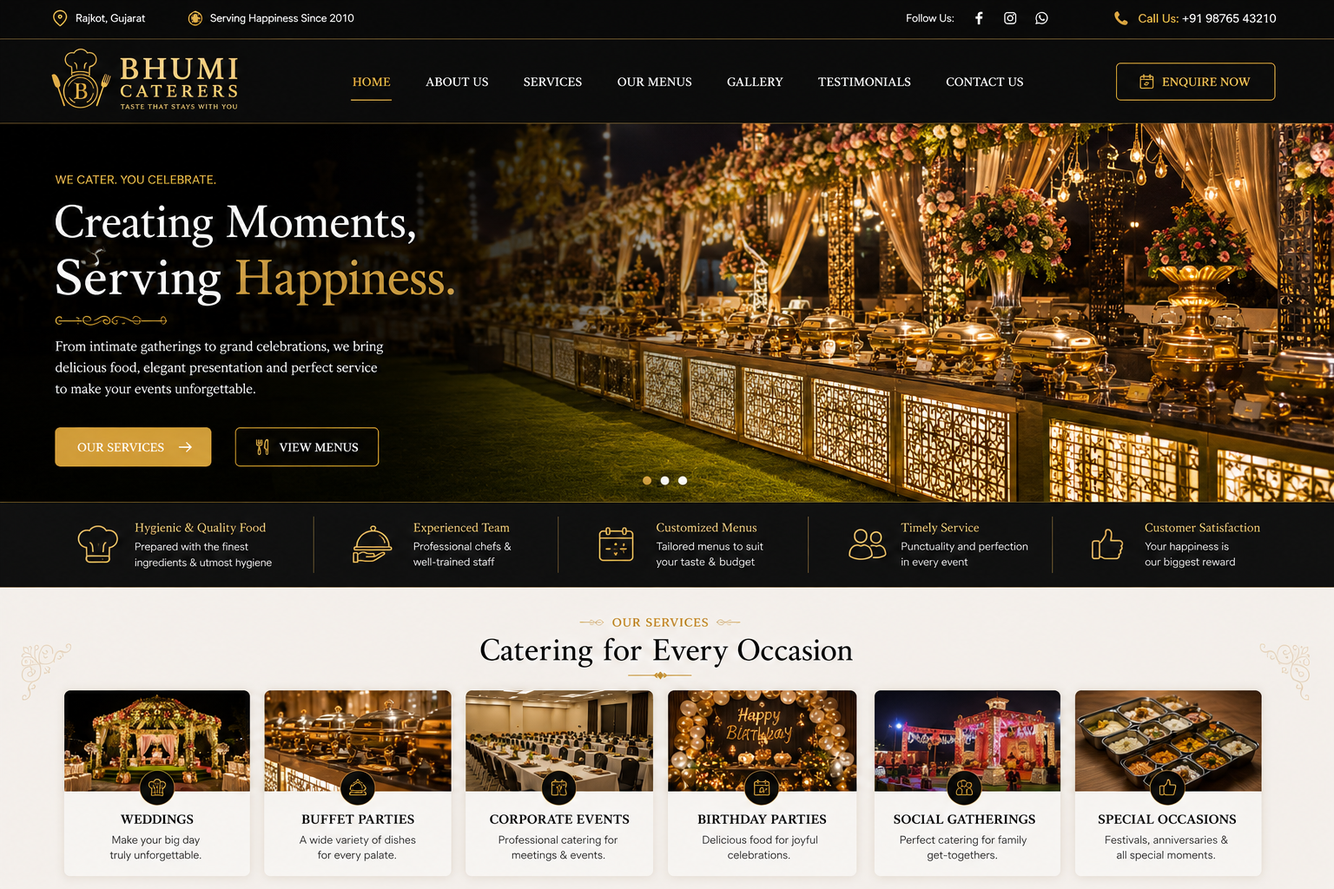
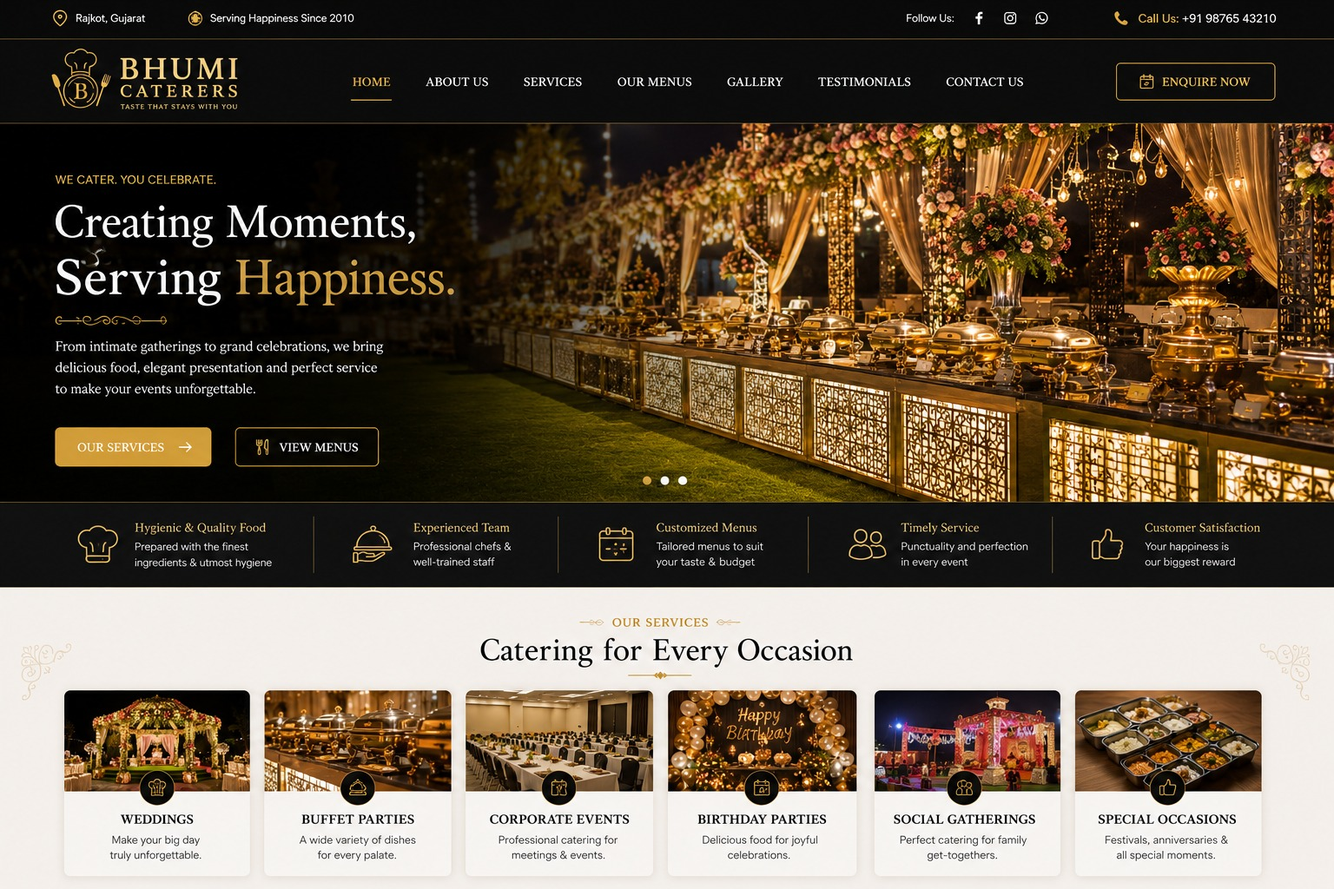
Add files via upload

diff --git a/index.html b/index.html
@@ -3,127 +3,204 @@
 <head>
 <meta charset="UTF-8">
 <meta name="viewport" content="width=device-width, initial-scale=1.0">
-<title>Bhumi Caterers | Premium Catering Services</title>
-<meta name="description" content="Bhumi Caterers - Premium vegetarian catering for weddings, corporate events, parties and special occasions.">
+<title>Bhumi Caterers | Premium Vegetarian Catering in Rajkot</title>
+<meta name="description" content="Bhumi Caterers - premium vegetarian catering for weddings, parties, corporate events and celebrations in Rajkot.">
 <style>
-:root{--gold:#d5a63b;--gold2:#f0cc72;--dark:#080808;--cream:#f7f3eb;--text:#171717}
-*{box-sizing:border-box;margin:0;padding:0}
-html{scroll-behavior:smooth}
-body{font-family:Georgia,"Times New Roman",serif;background:var(--cream);color:var(--text)}
-a{text-decoration:none;color:inherit}.topbar{background:#050505;color:#ddd;padding:9px 5%;display:flex;justify-content:space-between;gap:15px;font:12px Arial}
-header{position:sticky;top:0;z-index:20;background:rgba(5,5,5,.96);border-bottom:1px solid #5d4619;color:#fff;padding:15px 5%;display:flex;align-items:center;justify-content:space-between}
-.logo{display:flex;align-items:center;gap:12px}.logoIcon{width:46px;height:46px;border:2px solid var(--gold);border-radius:50%;display:grid;place-items:center;color:var(--gold);font-size:25px}.logoText{font-weight:bold;letter-spacing:4px;font-size:24px}.logoText small{display:block;font:9px Arial;letter-spacing:4px;color:var(--gold);text-align:center;margin-top:2px}
-nav{display:flex;gap:25px;font:13px Arial;color:#eee}nav a:hover,nav a.active{color:var(--gold)}
-.headerBtn{border:1px solid var(--gold);padding:12px 18px;color:var(--gold);font:12px Arial;font-weight:bold;border-radius:3px}
-.menuBtn{display:none;color:var(--gold);font-size:25px;background:none;border:0}
-.hero{height:650px;position:relative;overflow:hidden;background:#000;color:#fff}.hero img{position:absolute;inset:0;width:100%;height:100%;object-fit:cover;filter:saturate(.9)}.hero:after{content:"";position:absolute;inset:0;background:linear-gradient(90deg,#000 5%,rgba(0,0,0,.76) 43%,rgba(0,0,0,.15) 100%)}
-.heroContent{position:relative;z-index:2;max-width:650px;padding:120px 6%}.eyebrow{font:13px Arial;letter-spacing:2px;color:var(--gold);font-weight:bold}.hero h1{font-size:62px;line-height:1.04;margin:18px 0}.hero h1 span{color:var(--gold)}.hero p{font:16px Arial;line-height:1.75;color:#ddd;max-width:550px}.buttons{margin-top:28px;display:flex;gap:12px;flex-wrap:wrap}.btn{background:var(--gold);color:#111;padding:15px 25px;border-radius:3px;font:13px Arial;font-weight:bold}.btn.outline{background:transparent;color:#fff;border:1px solid var(--gold)}
-.stats{background:#090909;color:#fff;display:grid;grid-template-columns:repeat(5,1fr);padding:28px 5%;gap:10px;text-align:center}.stat{border-right:1px solid #594719;padding:5px}.stat:last-child{border:0}.stat b{display:block;color:var(--gold);font-size:14px;margin-bottom:6px}.stat span{font:12px Arial;color:#bbb}
-.section{padding:78px 6%}.center{text-align:center}.eyebrowDark{color:#aa7920;font:12px Arial;letter-spacing:2px;font-weight:bold}.title{font-size:40px;margin:10px 0 14px}.subtitle{font:14px Arial;color:#666;line-height:1.7;max-width:650px;margin:0 auto 40px}
-.cards{display:grid;grid-template-columns:repeat(3,1fr);gap:22px}.card{background:#fff;border:1px solid #e8dfd1;border-radius:8px;overflow:hidden;box-shadow:0 10px 30px rgba(0,0,0,.06);transition:.25s}.card:hover{transform:translateY(-5px)}.card img{width:100%;height:205px;object-fit:cover}.cardBody{padding:22px}.card h3{font-size:20px;margin-bottom:8px}.card p{font:13px Arial;line-height:1.6;color:#666}.goldLine{width:55px;height:2px;background:var(--gold);margin:20px auto 35px}
-.about{background:#0a0a0a;color:#fff;display:grid;grid-template-columns:1fr 1fr;gap:55px;align-items:center}.aboutImg{width:100%;height:460px;object-fit:cover;border-radius:5px}.about h2{font-size:42px;margin:12px 0 20px}.about p{font:14px Arial;line-height:1.9;color:#ccc}.checks{display:grid;grid-template-columns:1fr 1fr;gap:15px;margin-top:25px;font:13px Arial}.checks div:before{content:"✓";color:var(--gold);font-weight:bold;margin-right:9px}
-.menuGrid{display:grid;grid-template-columns:repeat(4,1fr);gap:15px}.menuItem{background:#111;color:#fff;padding:23px;border-radius:5px;border-left:3px solid var(--gold)}.menuItem h3{color:var(--gold);font-size:17px;margin-bottom:8px}.menuItem p{font:12px Arial;color:#ccc;line-height:1.6}
-.gallery{background:#111;color:#fff}.galleryGrid{display:grid;grid-template-columns:repeat(4,1fr);gap:10px}.galleryGrid img{width:100%;height:210px;object-fit:cover;border-radius:4px;filter:saturate(.9);transition:.25s}.galleryGrid img:hover{transform:scale(1.02);filter:saturate(1.1)}
-.testimonials{display:grid;grid-template-columns:repeat(3,1fr);gap:20px}.quote{background:#fff;padding:28px;border-radius:6px;border:1px solid #e5dccd}.stars{color:var(--gold);letter-spacing:3px;margin-bottom:12px}.quote p{font:14px Arial;line-height:1.7;color:#555}.quote b{display:block;margin-top:18px}
-.contact{background:#0a0a0a;color:#fff;display:grid;grid-template-columns:1fr 1fr;gap:50px}.contact h2{font-size:40px;margin:10px 0 20px}.contact p{font:14px Arial;line-height:1.8;color:#ccc}.info{margin-top:25px;display:grid;gap:12px;font:14px Arial}.info b{color:var(--gold)}form{display:grid;gap:12px}input,textarea,select{width:100%;padding:15px;background:#171717;border:1px solid #4b3a19;color:#fff;border-radius:3px;font:13px Arial}textarea{height:120px;resize:vertical}
-footer{background:#050505;color:#aaa;padding:45px 6%;font:12px Arial}.footerGrid{display:grid;grid-template-columns:2fr 1fr 1fr;gap:40px}.footerLogo{color:var(--gold);font:24px Georgia;font-weight:bold;margin-bottom:12px}.footerGrid h4{color:#fff;margin-bottom:15px}.footerGrid p{line-height:1.8}.copy{border-top:1px solid #222;margin-top:30px;padding-top:20px;text-align:center}
-.whatsapp{position:fixed;right:20px;bottom:20px;width:55px;height:55px;border-radius:50%;background:#1fca62;color:#fff;display:grid;place-items:center;font:bold 23px Arial;z-index:30;box-shadow:0 5px 20px #0005}
-@media(max-width:950px){nav{display:none}.menuBtn{display:block}.headerBtn{display:none}.hero{height:620px}.hero h1{font-size:47px}.stats{grid-template-columns:repeat(2,1fr)}.cards{grid-template-columns:1fr 1fr}.about,.contact{grid-template-columns:1fr}.menuGrid{grid-template-columns:1fr 1fr}.galleryGrid{grid-template-columns:1fr 1fr}.testimonials{grid-template-columns:1fr}.footerGrid{grid-template-columns:1fr 1fr}}
-@media(max-width:600px){.topbar{font-size:10px}.topbar span:nth-child(2){display:none}.logoText{font-size:19px}.heroContent{padding:95px 6%}.hero h1{font-size:39px}.hero p{font-size:14px}.stats{grid-template-columns:1fr 1fr}.cards,.menuGrid,.galleryGrid{grid-template-columns:1fr}.section{padding:55px 5%}.title,.about h2,.contact h2{font-size:32px}.galleryGrid img{height:220px}}
+:root{--gold:#d6aa48;--gold2:#f2d58b;--black:#080909;--ink:#111;--cream:#f8f3e9;--line:#6b5220;--muted:#777}
+*{box-sizing:border-box;margin:0;padding:0}html{scroll-behavior:smooth}
+body{font-family:Arial,Helvetica,sans-serif;background:var(--cream);color:var(--ink)}
+a{text-decoration:none;color:inherit}button,input,textarea{font:inherit}
+.top{height:36px;background:#050505;color:#ddd;display:flex;align-items:center;justify-content:space-between;padding:0 5%;font-size:12px}
+header{height:84px;background:rgba(7,7,7,.97);color:#fff;border-bottom:1px solid var(--line);display:flex;align-items:center;justify-content:space-between;padding:0 5%;position:sticky;top:0;z-index:50}
+.brand{display:flex;align-items:center;gap:10px}.brandIcon{width:44px;height:44px;border:2px solid var(--gold);border-radius:50%;display:grid;place-items:center;color:var(--gold);font-family:Georgia;font-size:25px}.brandText{font:700 25px Georgia;letter-spacing:3px}.brandText small{display:block;color:var(--gold);font:9px Arial;letter-spacing:4px;text-align:center;margin-top:2px}
+nav{display:flex;gap:24px;font-size:13px}nav a{color:#ddd}nav a:hover,nav a.active{color:var(--gold)}
+.enquire{border:1px solid var(--gold);padding:12px 18px;color:var(--gold);font-size:12px;font-weight:bold;border-radius:3px}
+.menuToggle{display:none;background:none;border:0;color:var(--gold);font-size:25px}
+
+.hero{min-height:650px;position:relative;overflow:hidden;background:#000;color:#fff;display:flex;align-items:center}
+.hero img{position:absolute;inset:0;width:100%;height:100%;object-fit:cover}.heroShade{position:absolute;inset:0;background:linear-gradient(90deg,#000 4%,rgba(0,0,0,.84) 39%,rgba(0,0,0,.2) 78%,rgba(0,0,0,.1))}
+.heroContent{position:relative;z-index:2;width:52%;padding:80px 6%}.eyebrow{color:var(--gold);font-size:13px;letter-spacing:2px;font-weight:bold}.hero h1{font:58px/1.05 Georgia;margin:20px 0}.hero h1 span{color:var(--gold)}.hero p{color:#ddd;font-size:15px;line-height:1.8;max-width:560px}.buttons{display:flex;gap:12px;margin-top:28px;flex-wrap:wrap}.btn{background:var(--gold);color:#111;padding:14px 24px;border-radius:3px;font-weight:bold;font-size:13px}.btn.outline{background:transparent;border:1px solid var(--gold);color:#fff}
+.trust{position:absolute;bottom:28px;left:6%;right:6%;z-index:3;display:grid;grid-template-columns:repeat(5,1fr);background:rgba(5,5,5,.84);border:1px solid #5d461b;padding:16px;border-radius:4px}.trust div{border-right:1px solid #5d461b;text-align:center;color:#bbb;font-size:11px}.trust div:last-child{border:0}.trust b{display:block;color:var(--gold);font-size:12px;margin-bottom:5px}
+
+.section{padding:75px 6%}.center{text-align:center}.eyebrowDark{color:#a97921;font-size:12px;letter-spacing:2px;font-weight:bold}.title{font:40px Georgia;margin:10px 0 12px}.subtitle{max-width:700px;margin:0 auto 35px;color:#666;font-size:14px;line-height:1.7}.orn{width:60px;height:2px;background:var(--gold);margin:18px auto 35px}
+
+.occasionGrid{display:grid;grid-template-columns:repeat(4,1fr);gap:18px}.occasion{position:relative;height:250px;border-radius:7px;overflow:hidden;color:#fff}.occasion img{width:100%;height:100%;object-fit:cover;transition:.3s}.occasion:hover img{transform:scale(1.05)}.occasion:after{content:"";position:absolute;inset:0;background:linear-gradient(transparent 35%,rgba(0,0,0,.85))}.occasionText{position:absolute;z-index:2;left:20px;right:20px;bottom:18px}.occasionText h3{font:22px Georgia;margin-bottom:5px}.occasionText p{font-size:12px;color:#ddd}
+
+.about{background:#0a0a0a;color:#fff;display:grid;grid-template-columns:1fr 1fr;gap:55px;align-items:center}.aboutImg{width:100%;height:450px;object-fit:cover;border:1px solid #5d461b}.about h2{font:42px Georgia;margin:10px 0 20px}.about p{font-size:14px;line-height:1.9;color:#ccc}.ticks{display:grid;grid-template-columns:1fr 1fr;gap:14px;margin-top:24px;font-size:13px}.ticks span:before{content:"✓";color:var(--gold);font-weight:bold;margin-right:9px}
+
+.menuSection{background:#111;color:#fff}.menuTabs{display:flex;justify-content:center;gap:8px;flex-wrap:wrap;margin:25px 0 40px}.tab{border:1px solid #6a5220;background:#171717;color:#ddd;padding:10px 15px;border-radius:20px;cursor:pointer;font-size:12px}.tab.active,.tab:hover{background:var(--gold);color:#111}.menuPanel{display:none}.menuPanel.active{display:block}.menuPanel h3{font:26px Georgia;color:var(--gold);text-align:center;margin-bottom:22px}.menuGrid{display:grid;grid-template-columns:repeat(3,1fr);gap:15px}.menuCard{background:#f7f2e8;color:#222;border-radius:6px;padding:20px;border-top:3px solid var(--gold);min-height:185px}.menuCard h4{font:18px Georgia;margin-bottom:12px}.menuCard ul{columns:2;list-style:none}.menuCard li{font-size:12px;margin:6px 0;color:#555}.menuCard li:before{content:"◆";font-size:7px;color:#b28528;margin-right:7px}
+
+.photoMenu{display:grid;grid-template-columns:repeat(4,1fr);gap:15px;margin-top:40px}.foodPhoto{background:#181818;border:1px solid #5d461b;border-radius:5px;overflow:hidden}.foodPhoto img{width:100%;height:180px;object-fit:cover}.foodPhoto h4{padding:13px;color:var(--gold);font:17px Georgia}.foodPhoto p{padding:0 13px 15px;color:#aaa;font-size:11px}
+
+.gallery{background:#f3eee4}.galleryGrid{display:grid;grid-template-columns:repeat(3,1fr);gap:12px}.galleryGrid img{width:100%;height:260px;object-fit:cover;border-radius:5px;transition:.25s}.galleryGrid img:hover{transform:scale(1.015)}
+
+.reviews{display:grid;grid-template-columns:repeat(3,1fr);gap:20px}.review{background:#fff;border:1px solid #e5dccd;padding:27px;border-radius:5px}.stars{color:#c79732;letter-spacing:3px;margin-bottom:12px}.review p{font-size:13px;line-height:1.7;color:#555}.review b{display:block;margin-top:15px;font-size:12px}
+
+.cta{background:linear-gradient(90deg,#090909,#17130b);color:#fff;display:grid;grid-template-columns:1.2fr 1fr;align-items:center;gap:50px}.cta h2{font:42px Georgia;margin:10px 0}.cta p{color:#ccc;line-height:1.7;font-size:14px}.contactBox{border:1px solid #5d461b;padding:28px;border-radius:5px}.contactRow{display:flex;justify-content:space-between;gap:15px;padding:13px 0;border-bottom:1px solid #332814;font-size:13px}.contactRow:last-child{border:0}.contactRow b{color:var(--gold)}
+
+footer{background:#050505;color:#aaa;padding:45px 6%;font-size:12px}.footGrid{display:grid;grid-template-columns:2fr 1fr 1fr 1fr;gap:35px}.footGrid h4{color:#fff;margin-bottom:15px}.footBrand{font:25px Georgia;color:var(--gold);margin-bottom:10px}.footGrid p{line-height:1.9}.copy{border-top:1px solid #222;margin-top:30px;padding-top:18px;text-align:center}
+.wa{position:fixed;right:18px;bottom:18px;width:55px;height:55px;border-radius:50%;display:grid;place-items:center;background:#1fc766;color:#fff;font-weight:bold;z-index:60;box-shadow:0 5px 18px #0006}
+
+@media(max-width:1000px){nav{display:none}.menuToggle{display:block}.enquire{display:none}.heroContent{width:70%}.trust{grid-template-columns:repeat(2,1fr);gap:10px}.trust div:nth-child(2n){border:0}.occasionGrid{grid-template-columns:repeat(2,1fr)}.menuGrid{grid-template-columns:repeat(2,1fr)}.photoMenu{grid-template-columns:repeat(2,1fr)}.footGrid{grid-template-columns:repeat(2,1fr)}}
+@media(max-width:650px){.top{font-size:10px}.top span:nth-child(2){display:none}.brandText{font-size:19px}.hero{min-height:690px}.heroContent{width:100%;padding:65px 6% 190px}.hero h1{font-size:41px}.heroShade{background:linear-gradient(90deg,#000 0%,rgba(0,0,0,.72) 100%)}.trust{left:4%;right:4%;bottom:15px;grid-template-columns:1fr 1fr;padding:10px}.section{padding:55px 5%}.title{font-size:32px}.occasionGrid,.menuGrid,.photoMenu,.reviews,.galleryGrid,.about,.cta{grid-template-columns:1fr}.aboutImg{height:300px}.menuCard ul{columns:1}.galleryGrid img{height:230px}.footGrid{grid-template-columns:1fr}.cta h2{font-size:34px}}
 </style>
 </head>
 <body>
-<div class="topbar"><span>📍 Rajkot, Gujarat</span><span>✦ Serving Happiness Since 2010</span><span>☎ Call Us: +91 98765 43210</span></div>
+
+<div class="top"><span>📍 Rajkot, Gujarat</span><span>✦ Pure Vegetarian Catering</span><span>☎ +91 98253 21216</span></div>
 <header>
-<a class="logo" href="#home"><span class="logoIcon">B</span><span class="logoText">BHUMI<small>CATERERS</small></span></a>
-<nav><a class="active" href="#home">HOME</a><a href="#about">ABOUT</a><a href="#services">SERVICES</a><a href="#menus">MENUS</a><a href="#gallery">GALLERY</a><a href="#reviews">REVIEWS</a><a href="#contact">CONTACT</a></nav>
-<a class="headerBtn" href="#contact">ENQUIRE NOW</a><button class="menuBtn" onclick="toggleMenu()">☰</button>
+<a href="#home" class="brand"><span class="brandIcon">B</span><span class="brandText">BHUMI<small>CATERERS</small></span></a>
+<nav id="nav"><a class="active" href="#home">HOME</a><a href="#about">ABOUT</a><a href="#services">SERVICES</a><a href="#menu">OUR MENU</a><a href="#gallery">GALLERY</a><a href="#reviews">REVIEWS</a><a href="#contact">CONTACT</a></nav>
+<a class="enquire" href="#contact">ENQUIRE NOW →</a><button class="menuToggle" onclick="toggleNav()">☰</button>
 </header>
 
 <section class="hero" id="home">
-<img src="hero.jpg" alt="Luxury Bhumi Caterers buffet">
-<div class="heroContent">
-<div class="eyebrow">WE CATER. YOU CELEBRATE.</div>
+<img src="hero.jpg" alt="Luxury catering buffet">
+<div class="heroShade"></div>
+<div class="heroContent"><div class="eyebrow">WE CATER. YOU CELEBRATE.</div>
 <h1>Creating Moments,<br>Serving <span>Happiness.</span></h1>
-<p>From intimate family gatherings to grand weddings, Bhumi Caterers brings delicious vegetarian food, elegant presentation and professional service to every celebration.</p>
-<div class="buttons"><a class="btn" href="#services">OUR SERVICES →</a><a class="btn outline" href="#menus">VIEW MENUS</a></div>
-</div></section>
-
-<div class="stats">
-<div class="stat"><b>QUALITY FOOD</b><span>Fresh ingredients & hygiene</span></div>
-<div class="stat"><b>EXPERIENCED TEAM</b><span>Professional chefs & staff</span></div>
-<div class="stat"><b>CUSTOM MENUS</b><span>Menus for every taste</span></div>
-<div class="stat"><b>TIMELY SERVICE</b><span>Punctual & organized</span></div>
-<div class="stat"><b>HAPPY CLIENTS</b><span>Celebrations made special</span></div>
-</div>
+<p>Premium vegetarian catering for weddings, family functions, corporate events and every celebration that deserves unforgettable food and flawless service. <strong style="color:#f2d58b">Contact: Darshit Kakkad</strong></p>
+<div class="buttons"><a class="btn" href="#contact">PLAN YOUR EVENT →</a><a class="btn outline" href="#menu">EXPLORE MENU</a></div></div>
+<div class="trust"><div><b>HYGIENIC FOOD</b>Fresh ingredients</div><div><b>EXPERIENCED TEAM</b>Professional chefs</div><div><b>CUSTOM MENUS</b>Your taste, your way</div><div><b>ON-TIME SERVICE</b>Perfect execution</div><div><b>HAPPY CLIENTS</b>Memorable events</div></div>
+</section>
 
 <section class="section center" id="services">
-<div class="eyebrowDark">OUR SERVICES</div><h2 class="title">Catering for Every Occasion</h2><div class="goldLine"></div>
-<p class="subtitle">Whether it is a wedding, birthday, corporate gathering or family function, our team creates a memorable dining experience.</p>
-<div class="cards">
-<div class="card"><img src="hero.jpg"><div class="cardBody"><h3>Wedding Catering</h3><p>Grand buffet setups, live counters and elegant vegetarian menus for your special day.</p></div></div>
-<div class="card"><img src="hero.jpg"><div class="cardBody"><h3>Buffet Parties</h3><p>Beautiful presentation and a wide variety of dishes for every kind of celebration.</p></div></div>
-<div class="card"><img src="hero.jpg"><div class="cardBody"><h3>Corporate Events</h3><p>Professional catering for meetings, launches, conferences and office celebrations.</p></div></div>
-<div class="card"><img src="hero.jpg"><div class="cardBody"><h3>Birthday Parties</h3><p>Fun, flavorful and perfectly planned food service for memorable birthdays.</p></div></div>
-<div class="card"><img src="hero.jpg"><div class="cardBody"><h3>Social Gatherings</h3><p>Family functions and get-togethers with customized menus and smooth service.</p></div></div>
-<div class="card"><img src="hero.jpg"><div class="cardBody"><h3>Special Occasions</h3><p>Festivals, anniversaries and celebrations planned around your requirements.</p></div></div>
+<div class="eyebrowDark">WHAT WE CATER</div><h2 class="title">Catering for Every Occasion</h2><div class="orn"></div>
+<p class="subtitle">From intimate family gatherings to grand celebrations, our team handles food, presentation and service with care.</p>
+<div class="occasionGrid">
+<div class="occasion"><img src="main-course.jpg"><div class="occasionText"><h3>Weddings</h3><p>Grand buffet • Live counters • Full service</p></div></div>
+<div class="occasion"><img src="shak-sabji.jpg"><div class="occasionText"><h3>Buffet Parties</h3><p>Rich variety • Elegant presentation</p></div></div>
+<div class="occasion"><img src="starter-cutlet.jpg"><div class="occasionText"><h3>Corporate Events</h3><p>Professional catering for teams & guests</p></div></div>
+<div class="occasion"><img src="starter-roll.jpg"><div class="occasionText"><h3>Birthdays & Functions</h3><p>Fun menus for every celebration</p></div></div>
 </div>
 </section>
 
 <section class="section about" id="about">
-<img class="aboutImg" src="hero.jpg" alt="Bhumi Caterers">
-<div><div class="eyebrow">ABOUT BHUMI CATERERS</div><h2>Food That Brings People Together.</h2><p>We believe catering is more than serving food. It is about creating an experience that guests remember. Bhumi Caterers focuses on taste, hygiene, presentation and dependable service for every event.</p>
-<div class="checks"><div>Premium ingredients</div><div>Pure vegetarian menus</div><div>Professional staff</div><div>Elegant presentation</div><div>Customized packages</div><div>On-time service</div></div></div>
+<img class="aboutImg" src="hero.jpg" alt="Bhumi Caterers buffet">
+<div><div class="eyebrow">ABOUT BHUMI CATERERS</div><h2>Taste That Stays With You.</h2>
+<p>Bhumi Caterers is a specialist in Kathiyawadi, Punjabi, Chinese and a wide variety of vegetarian foods. We combine authentic taste with clean presentation, dependable staff and customized menus for every event.</p>
+<div class="ticks"><span>Pure vegetarian catering</span><span>Fresh quality ingredients</span><span>Counter decoration</span><span>Professional service staff</span><span>Good food service</span><span>Trusted team</span></div></div>
 </section>
 
-<section class="section center" id="menus">
-<div class="eyebrowDark">OUR SPECIAL MENU</div><h2 class="title">Taste Crafted for Your Celebration</h2><div class="goldLine"></div>
-<div class="menuGrid">
-<div class="menuItem"><h3>Welcome Drinks</h3><p>Fresh welcome beverages & traditional refreshments.</p></div>
-<div class="menuItem"><h3>Starters</h3><p>Hot snacks, chaat, farsan & live starter counters.</p></div>
-<div class="menuItem"><h3>Main Course</h3><p>Rich Gujarati, Punjabi, South Indian & fusion options.</p></div>
-<div class="menuItem"><h3>Live Counters</h3><p>Freshly prepared dishes served hot by our chefs.</p></div>
-<div class="menuItem"><h3>Indian Breads</h3><p>Rotis, naan, puri and traditional breads.</p></div>
-<div class="menuItem"><h3>Rice & Dal</h3><p>Fragrant rice, pulao, biryani and dal preparations.</p></div>
-<div class="menuItem"><h3>Desserts</h3><p>Traditional sweets, desserts and celebration specials.</p></div>
-<div class="menuItem"><h3>Custom Menu</h3><p>Tell us your preference and we will create it for you.</p></div>
+<section class="section menuSection" id="menu">
+<div class="center"><div class="eyebrow">OUR MENU</div><h2 class="title">A Menu Made for Every Guest</h2><div class="orn"></div><p class="subtitle" style="color:#aaa">The menu categories below are created from the menu names you provided. Tap a category to explore.</p></div>
+<div style="max-width:900px;margin:0 auto 18px;text-align:center;color:#aaa;font-size:12px">Menu is arranged from the menu pages you supplied — category-wise, as a fresh digital menu (the original menu-card photos are not used as website cards).</div><div class="menuTabs">
+<button class="tab active" onclick="showMenu('main',this)">Main Course</button>
+<button class="tab" onclick="showMenu('rice',this)">Rice & Pulav</button>
+<button class="tab" onclick="showMenu('soup',this)">Soups</button>
+<button class="tab" onclick="showMenu('starter',this)">Starters</button>
+<button class="tab" onclick="showMenu('chinese',this)">Chinese</button>
+<button class="tab" onclick="showMenu('south',this)">South Indian</button>
+<button class="tab" onclick="showMenu('bread',this)">Breads</button>
+<button class="tab" onclick="showMenu('sweet',this)">Sweets</button>
+<button class="tab" onclick="showMenu('live',this)">Live Counters</button>
+<button class="tab" onclick="showMenu('other',this)">More</button>
+</div>
+
+<div class="menuPanel active" id="main"><h3>Shak / Sabji • Dal / Rassa</h3><div class="menuGrid">
+<div class="menuCard"><h4>Dal / Rassa / Fular</h4><ul><li>Dal Fry</li><li>Special Punjabi Dal Tadka</li><li>Dal Makhani</li><li>Kadhai Dal</li><li>Palak Mag</li><li>Mix Dal</li><li>Punjabi Kadhi</li><li>Kadhi Pakoda</li><li>Raita</li><li>Boondi Raita</li><li>Sev Tameta</li><li>Kadhi Kachori</li></ul></div>
+<div class="menuCard"><h4>Gujarati & Kathiyawadi</h4><ul><li>Undhiyu</li><li>Gujarati Kadhi</li><li>Ringan Bateta</li><li>Ringan No Olo</li><li>Sev Tameta Nu Shaak</li><li>Bateta Nu Shaak</li><li>Lasaniya Bateta</li><li>Mix Kathiyawadi Shaak</li><li>Bhinda Masala</li><li>Bhinda Fry</li><li>Gavar Nu Shaak</li><li>Tuvar Lilva</li></ul></div>
+<div class="menuCard"><h4>Paneer & Veg Special</h4><ul><li>Paneer Butter Masala</li><li>Paneer Tikka Masala</li><li>Paneer Lababdar</li><li>Paneer Pasanda</li><li>Paneer Handi</li><li>Paneer Cheese Masala</li><li>Paneer Makhani</li><li>Kaju Masala</li><li>Veg Kolhapuri</li><li>Veg Handi</li><li>Veg Makhani</li><li>Veg Hyderabadi</li></ul></div>
+</div></div>
+
+<div class="menuPanel" id="rice"><h3>Rice • Pulav • Khichdi</h3><div class="menuGrid">
+<div class="menuCard"><h4>Rice & Pulav</h4><ul><li>Steam Rice</li><li>Jeera Rice</li><li>Veg Pulav</li><li>Kashmiri Pulav</li><li>Peas Pulav</li><li>Hyderabadi Biryani</li><li>Veg Biryani</li><li>Paneer Biryani</li><li>Fried Rice</li><li>Schezwan Fried Rice</li><li>Triple Schezwan Rice</li><li>Singapuri Rice</li></ul></div>
+<div class="menuCard"><h4>Special Rice</h4><ul><li>Veg. Biryani with Kadhi</li><li>Paneer Veg. Biryani</li><li>Mexican Rice</li><li>American Rice</li><li>Macaroni Rice</li><li>Vegetable Rice</li><li>Palak Pulav</li><li>Peas Pulav</li><li>Gujarati Pulav</li><li>Special Wedding Pulav</li></ul></div>
+<div class="menuCard"><h4>Khichdi</h4><ul><li>Dal Khichdi</li><li>Palak Khichdi</li><li>Sabudana Khichdi</li><li>Vaghareli Khichdi</li><li>Veg Khichdi</li><li>Gujarati Kadhi with Khichdi</li></ul></div>
+</div></div>
+
+<div class="menuPanel" id="soup"><h3>Garma Garam Soup</h3><div class="menuGrid">
+<div class="menuCard"><h4>Indian & Classic</h4><ul><li>Veg. Manchow Soup</li><li>Veg. Sweet Corn Soup</li><li>Veg. Clear Soup</li><li>Tomato Soup</li><li>Veg. Hot & Sour Soup</li><li>Veg. Garlic Soup</li><li>Veg. Minestrone Soup</li><li>Veg. Italian Soup</li></ul></div>
+<div class="menuCard"><h4>International</h4><ul><li>Lemon Coriander Soup</li><li>Mexican Tomato Soup</li><li>Italian Minestrone Soup</li><li>Mexican Chilli Bean Soup</li><li>Thai Lemon Pepper Soup</li><li>Thai Green Pepper Soup</li><li>Bulgarian Lutenitsa Soup</li><li>Cream of Tomato Soup</li></ul></div>
+<div class="menuCard"><h4>Special</h4><ul><li>Mushroom Soup</li><li>Veg. Split Corn Soup</li><li>Veg. Garlic Soup</li><li>Hot & Sour Special</li><li>Chilli Tomato Soup</li><li>Garden Vegetable Soup</li></ul></div>
+</div></div>
+
+<div class="menuPanel" id="starter"><h3>Starters & Snacks</h3><div class="menuGrid">
+<div class="menuCard"><h4>Indian Starters</h4><ul><li>Veg Cutlet</li><li>Cheese Cutlet</li><li>Hara Bhara Kebab</li><li>Dahi Kebab</li><li>Veg Seekh Kebab</li><li>Corn Kebab</li><li>Mix Pakoda</li><li>Paneer Pakoda</li><li>Onion Pakoda</li><li>Mirchi Bhajiya</li><li>Samosa</li><li>Kachori</li></ul></div>
+<div class="menuCard"><h4>Gujarati Farsan</h4><ul><li>Dhokla</li><li>Khaman Dhokla</li><li>Khandvi</li><li>Patra</li><li>Fafda</li><li>Bhajiya</li><li>Sev Khamani</li><li>Locho</li></ul></div>
+<div class="menuCard"><h4>Western & Continental</h4><ul><li>Garlic Bread</li><li>Cheese Balls</li><li>Jalapeno Potato</li><li>American Corn Cheese Balls</li><li>Veg Spring Roll</li><li>Cheese Roll</li><li>Paneer Cheese Toast</li><li>American Chopsy</li></ul></div>
+</div></div>
+
+<div class="menuPanel" id="chinese"><h3>Chinese & Oriental</h3><div class="menuGrid">
+<div class="menuCard"><h4>Noodles & Rice</h4><ul><li>Veg Hakka Noodles</li><li>Veg Schezwan Noodles</li><li>Veg Manchurian Dry</li><li>Veg Manchurian Gravy</li><li>Chilli Paneer Dry</li><li>Chilli Paneer Gravy</li><li>Gobi Manchurian</li><li>Honey Chilli Potato</li></ul></div>
+<div class="menuCard"><h4>Chinese Specials</h4><ul><li>Crispy Corn</li><li>Veg Spring Roll</li><li>American Chopsy</li><li>Chinese Bhel</li><li>Veg Fried Rice</li><li>Schezwan Fried Rice</li><li>Triple Schezwan Rice</li><li>Chilli Garlic Noodles</li></ul></div>
+<div class="menuCard"><h4>Asian & Fusion</h4><ul><li>Mexican Tacos</li><li>Italian Pasta</li><li>Mexican Chilli Bean</li><li>Garlic Noodles</li><li>Cheese Chilli</li><li>Veg. Stir Fry</li><li>Chinese Bhel</li><li>Asian style starters</li></ul></div>
+</div></div>
+
+<div class="menuPanel" id="south"><h3>South Indian</h3><div class="menuGrid">
+<div class="menuCard"><h4>Dosa</h4><ul><li>Plain Dosa</li><li>Masala Dosa</li><li>Rava Dosa</li><li>Mysore Masala Dosa</li><li>Butter Dosa</li><li>Cheese Dosa</li><li>Schezwan Dosa</li><li>Paneer Dosa</li></ul></div>
+<div class="menuCard"><h4>South Indian Favorites</h4><ul><li>Idli</li><li>Medu Vada</li><li>Masala Vada</li><li>Uttapam</li><li>Upma</li><li>Appam</li><li>Mini Idli</li><li>Chutneys & Sambhar</li></ul></div>
+<div class="menuCard"><h4>Live South Indian</h4><ul><li>Live Dosa Counter</li><li>Live Idli Counter</li><li>Live Uttapam</li><li>Live Vada</li><li>Fresh Sambhar</li><li>Fresh Coconut Chutney</li></ul></div>
+</div></div>
+
+<div class="menuPanel" id="bread"><h3>Live Roti • Paratha • Naan</h3><div class="menuGrid">
+<div class="menuCard"><h4>Roti & Puri</h4><ul><li>Phulka Roti</li><li>Puri</li><li>Missi Roti</li><li>Jowar Roti</li><li>Bajra Rotla</li><li>Bhakhri</li><li>Butter Roti</li><li>Roomali Roti</li></ul></div>
+<div class="menuCard"><h4>Paratha</h4><ul><li>Plain Paratha</li><li>Lachha Paratha</li><li>Ajwain Paratha</li><li>Paneer Paratha</li><li>Cheese Paratha</li><li>Palak Paratha</li><li>Aloo Paratha</li><li>Lasuni Paratha</li></ul></div>
+<div class="menuCard"><h4>Naan</h4><ul><li>Butter Naan</li><li>Garlic Naan</li><li>Cheese Naan</li><li>Cheese Garlic Naan</li><li>Stuffed Naan</li><li>Plain Kulcha</li><li>Masala Kulcha</li><li>Kashmiri Naan</li></ul></div>
+</div></div>
+
+<div class="menuPanel" id="sweet"><h3>Sweets & Desserts</h3><div class="menuGrid">
+<div class="menuCard"><h4>Traditional Sweets</h4><ul><li>Gulab Jamun</li><li>Jalebi</li><li>Rasmalai</li><li>Basundi</li><li>Gajar Halwa</li><li>Moong Dal Halwa</li><li>Shahi Tukda</li><li>Malai Kulfi</li></ul></div>
+<div class="menuCard"><h4>Special Desserts</h4><ul><li>Doodh Pak</li><li>Kaju Pista Mithai</li><li>Dry Fruit Halwa</li><li>Ice Cream</li><li>Fruit Cream</li><li>Rabdi</li><li>Special Wedding Dessert</li></ul></div>
+<div class="menuCard"><h4>Live Sweet Counter</h4><ul><li>Live Jalebi</li><li>Live Malpua</li><li>Live Rabdi</li><li>Hot Gulab Jamun</li><li>Fresh Kulfi</li></ul></div>
+</div></div>
+
+<div class="menuPanel" id="live"><h3>Live Counters</h3><div class="menuGrid">
+<div class="menuCard"><h4>Live Indian Counters</h4><ul><li>Live Dhokla</li><li>Live Khaman</li><li>Live Pav Bhaji</li><li>Live Pasta</li><li>Live Manchurian</li><li>Live Chaat</li></ul></div>
+<div class="menuCard"><h4>Live Chaat Counter</h4><ul><li>Raj Kachori</li><li>Dahi Puri</li><li>Sev Puri</li><li>Pani Puri</li><li>Ragda Puri</li><li>Aloo Tikki Chaat</li><li>Basket Chaat</li></ul></div>
+<div class="menuCard"><h4>Live Beverage Counter</h4><ul><li>Masala Chaas</li><li>Fresh Lime Soda</li><li>Sweet Lassi</li><li>Salted Lassi</li><li>Fresh Fruit Juice</li><li>Cold Coffee</li></ul></div>
+</div></div>
+
+<div class="menuPanel" id="other"><h3>Accompaniments & More</h3><div class="menuGrid">
+<div class="menuCard"><h4>Salad & Raita</h4><ul><li>Green Salad</li><li>Kachumber Salad</li><li>Russian Salad</li><li>Boondi Raita</li><li>Mixed Raita</li><li>Fresh Chaas</li></ul></div>
+<div class="menuCard"><h4>Chutney & Pickle</h4><ul><li>Green Chutney</li><li>Sweet Chutney</li><li>Mint Chutney</li><li>Pickle</li><li>Onion Salad</li><li>Masala Papad</li></ul></div>
+<div class="menuCard"><h4>Other Services</h4><ul><li>Counter Decoration</li><li>Couple Service Staff</li><li>Good Food Service</li><li>Trained Service Staff</li><li>Customized Menu Planning</li><li>Event Support</li></ul></div>
+</div></div>
+
+<div class="photoMenu">
+<div class="foodPhoto"><img src="main-course.jpg"><h4>Rich Main Course</h4><p>Dal, rassa, paneer and vegetables</p></div>
+<div class="foodPhoto"><img src="shak-sabji.jpg"><h4>Signature Sabji</h4><p>Traditional & Punjabi favourites</p></div>
+<div class="foodPhoto"><img src="starter-cutlet.jpg"><h4>Premium Starters</h4><p>Hot snacks and kebabs</p></div>
+<div class="foodPhoto"><img src="soup.jpg"><h4>Hot Soup</h4><p>Classic and international soups</p></div>
 </div>
 </section>
 
 <section class="section gallery" id="gallery">
-<div class="center"><div class="eyebrow">OUR GALLERY</div><h2 class="title">Moments We Love to Serve</h2><div class="goldLine"></div></div>
+<div class="center"><div class="eyebrowDark">FOOD & SERVICE</div><h2 class="title">A Premium Catering Experience</h2><div class="orn"></div></div>
 <div class="galleryGrid">
-<img src="hero.jpg"><img src="hero.jpg"><img src="hero.jpg"><img src="hero.jpg">
-<img src="hero.jpg"><img src="hero.jpg"><img src="hero.jpg"><img src="hero.jpg">
+<img src="main-course.jpg" alt="Main course"><img src="shak-sabji.jpg" alt="Vegetable dishes"><img src="breads-roti.jpg" alt="Roti">
+<img src="breads-paratha.jpg" alt="Paratha"><img src="naan.jpg" alt="Naan"><img src="starter-cutlet.jpg" alt="Starters">
+<img src="starter-roll.jpg" alt="Spring roll"><img src="soup.jpg" alt="Soup"><img src="kebab.jpg" alt="Kebab">
 </div>
 </section>
 
 <section class="section center" id="reviews">
-<div class="eyebrowDark">CLIENT LOVE</div><h2 class="title">What Our Guests Say</h2><div class="goldLine"></div>
-<div class="testimonials">
-<div class="quote"><div class="stars">★★★★★</div><p>“Food quality and presentation were excellent. The entire team managed our function beautifully.”</p><b>— Happy Client</b></div>
-<div class="quote"><div class="stars">★★★★★</div><p>“The buffet looked premium and every dish was served perfectly. Highly recommended.”</p><b>— Wedding Client</b></div>
-<div class="quote"><div class="stars">★★★★★</div><p>“Professional service, delicious food and very cooperative staff. Wonderful experience.”</p><b>— Family Event</b></div>
-</div>
+<div class="eyebrowDark">CLIENT LOVE</div><h2 class="title">What Guests Remember</h2><div class="orn"></div>
+<div class="reviews"><div class="review"><div class="stars">★★★★★</div><p>“Excellent food, beautiful presentation and very cooperative staff. The whole function was managed smoothly.”</p><b>Wedding Client</b></div>
+<div class="review"><div class="stars">★★★★★</div><p>“The live counters were a highlight. Guests loved the variety and freshness.”</p><b>Family Function</b></div>
+<div class="review"><div class="stars">★★★★★</div><p>“Professional service from start to finish. Bhumi Caterers made our event special.”</p><b>Corporate Client</b></div></div>
 </section>
 
-<section class="section contact" id="contact">
-<div><div class="eyebrow">LET'S PLAN YOUR EVENT</div><h2>Make Your Celebration Delicious.</h2><p>Share your event details and our team will contact you to discuss the menu, setup and catering requirements.</p>
-<div class="info"><div><b>PHONE</b>　+91 98765 43210</div><div><b>LOCATION</b>　Rajkot, Gujarat</div><div><b>SERVICE</b>　Weddings • Parties • Corporate • Events</div></div></div>
-<form onsubmit="sendWhatsApp(event)">
-<input id="name" required placeholder="Your Name">
-<input id="phone" required placeholder="Mobile Number">
-<input id="event" placeholder="Event Type">
-<input id="date" type="date">
-<textarea id="message" placeholder="Tell us about your event..."></textarea>
-<button class="btn" type="submit">SEND ENQUIRY ON WHATSAPP →</button>
-</form>
+<section class="section cta" id="contact">
+<div><div class="eyebrow">LET'S PLAN YOUR CELEBRATION</div><h2>Tell Us Your Occasion.</h2><p>Share your date, guest count and preferred menu. We will help you create the right catering experience.</p><div class="buttons"><a class="btn" href="https://wa.me/919825321216" target="_blank">WHATSAPP US →</a></div></div>
+<div class="contactBox"><div class="contactRow"><b>CONTACT PERSON</b><span>Darshit Kakkad</span></div><div class="contactRow"><b>CALL</b><span>+91 98253 21216</span></div><div class="contactRow"><b>WHATSAPP</b><span>+91 98253 21216</span></div><div class="contactRow"><b>LOCATION</b><span>Rajkot, Gujarat</span></div><div class="contactRow"><b>SPECIALITY</b><span>Kathiyawadi • Punjabi • Chinese • Veg</span></div></div>
 </section>
 
-<footer><div class="footerGrid"><div><div class="footerLogo">BHUMI CATERERS</div><p>Premium vegetarian catering with delicious food, elegant presentation and dependable service.</p></div><div><h4>QUICK LINKS</h4><p><a href="#about">About Us</a><br><a href="#services">Services</a><br><a href="#menus">Menus</a><br><a href="#gallery">Gallery</a></p></div><div><h4>CONTACT</h4><p>Rajkot, Gujarat<br>+91 98765 43210<br>Enquiries & Bookings</p></div></div><div class="copy">© 2026 Bhumi Caterers. All Rights Reserved.</div></footer>
-<a class="whatsapp" href="https://wa.me/919876543210" target="_blank">WA</a>
+<footer><div class="footGrid"><div><div class="footBrand">BHUMI CATERERS</div><p>Specialist for all types of Kathiyawadi Food, Punjabi Food, Chinese Food & other variety foods.</p></div><div><h4>QUICK LINKS</h4><p><a href="#about">About</a><br><a href="#services">Services</a><br><a href="#menu">Our Menu</a><br><a href="#gallery">Gallery</a></p></div><div><h4>SERVICES</h4><p>Wedding Catering<br>Buffet Parties<br>Corporate Events<br>Live Counters</p></div><div><h4>CONTACT</h4><p>Darshit Kakkad<br>Rajkot, Gujarat<br>+91 98253 21216<br>Bookings & Enquiries</p></div></div><div class="copy">© 2026 Bhumi Caterers. All Rights Reserved.</div></footer>
+<a class="wa" href="https://wa.me/919825321216" target="_blank">WA</a>
+
 <script>
-function toggleMenu(){const n=document.querySelector('nav');n.style.display=n.style.display==='flex'?'none':'flex';n.style.position='absolute';n.style.top='80px';n.style.left='0';n.style.right='0';n.style.background='#080808';n.style.padding='20px';n.style.flexDirection='column'}
-function sendWhatsApp(e){e.preventDefault();const n=document.getElementById('name').value,p=document.getElementById('phone').value,ev=document.getElementById('event').value,d=document.getElementById('date').value,m=document.getElementById('message').value;const text=`Bhumi Caterers Enquiry%0A%0AName: ${encodeURIComponent(n)}%0AMobile: ${encodeURIComponent(p)}%0AEvent: ${encodeURIComponent(ev)}%0ADate: ${encodeURIComponent(d)}%0ADetails: ${encodeURIComponent(m)}`;window.open('https://wa.me/919876543210?text='+text,'_blank')}
+function showMenu(id,btn){
+ document.querySelectorAll('.menuPanel').forEach(x=>x.classList.remove('active'));
+ document.getElementById(id).classList.add('active');
+ document.querySelectorAll('.tab').forEach(x=>x.classList.remove('active'));
+ btn.classList.add('active');
+}
+function toggleNav(){
+ const n=document.getElementById('nav');
+ if(getComputedStyle(n).display==='none'){
+  n.style.display='flex';n.style.position='absolute';n.style.top='84px';n.style.left='0';n.style.right='0';n.style.background='#080808';n.style.padding='20px';n.style.flexDirection='column';n.style.gap='18px';
+ }else n.style.display='none';
+}
 </script>
 </body></html>
